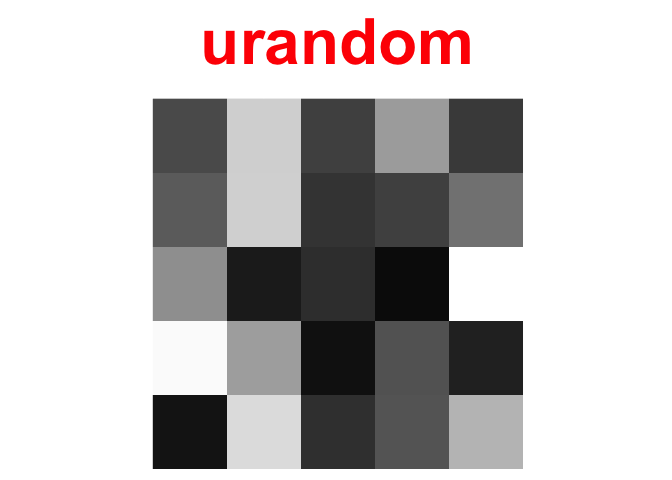
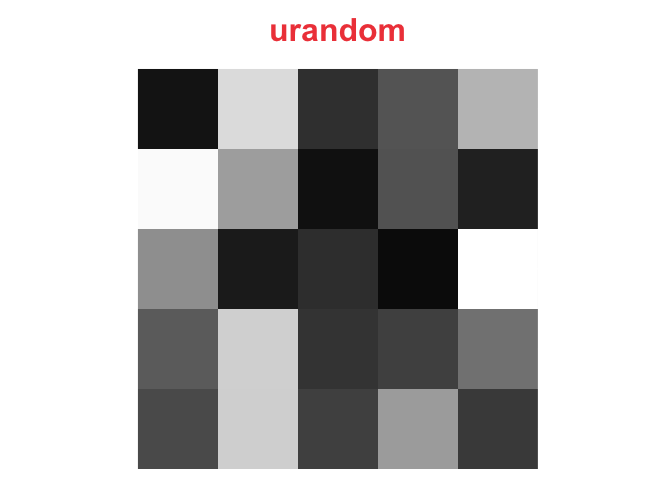
update README.Rmd

diff --git a/README.md b/README.md
@@ -64,3 +64,13 @@ plot_array2d(lar$rectangle, title = "square")
 ```
 
 <img src="man/figures/README-figures-side-1.png" width="20%" /><img src="man/figures/README-figures-side-2.png" width="20%" /><img src="man/figures/README-figures-side-3.png" width="20%" /><img src="man/figures/README-figures-side-4.png" width="20%" /><img src="man/figures/README-figures-side-5.png" width="20%" />
+
+``` r
+plot_array2d(list(lar$checker, lar$rectangle))
+plot_array2d(list(lar$checker, lar$zeros, lar$rectangle))
+plot_array2d(list(lar$checker, lar$ones, lar$rectangle))
+plot_array2d(list(lar$checker, lar$urandom, lar$zeros))
+plot_array2d(list(lar$checker, lar$zeros, lar$urandom))
+```
+
+<img src="man/figures/README-figures-side-color-1.png" width="20%" /><img src="man/figures/README-figures-side-color-2.png" width="20%" /><img src="man/figures/README-figures-side-color-3.png" width="20%" /><img src="man/figures/README-figures-side-color-4.png" width="20%" /><img src="man/figures/README-figures-side-color-5.png" width="20%" />
